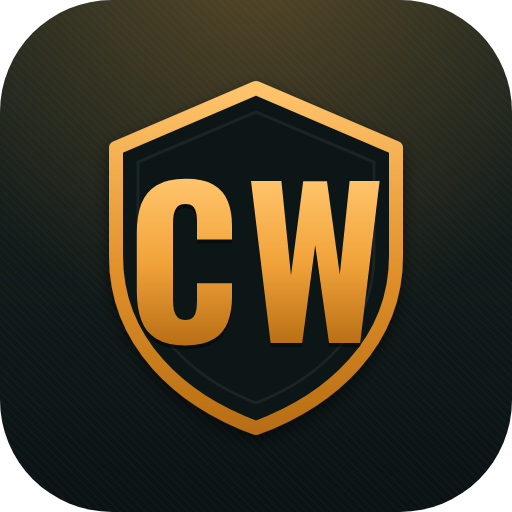
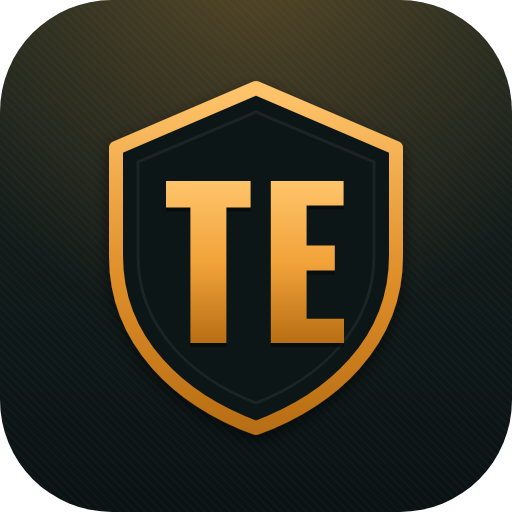
The game is Thug Empire
Every player-facing "Cartel Wars" is now "Thug Empire": the page title and home-screen name, the manifest, the sign-in and password-reset logos, the loading screen, the profile disclaimer (which now names the original game it's a fan project of), the purchase-account error, the privacy, terms and support pages, the Capacitor appName and the iOS display name, and the default sender of report emails. The icon monogram is TE and the splash wordmark reads THUG EMPIRE, regenerated by the brand scripts. The docs follow (README, SPEC, ops, iOS, the App Store listing, whose name section now explains the rename: no collision with Narcos: Cartel Wars).

Left alone on purpose: the bundle id io.rangelab.cartelwars and the IAP product ids (changing those makes a different app on the App Store), the repo and Pages URLs, package names, the bot email domain and the resume event name, and the original 2009 game's name wherever the history is told.

Claude-Session: https://claude.ai/code/session_014z8nSgjVgxbxPxw5xse587

Changed region(s): [[0.25, 0.3438, 0.75, 0.6875], [0.4062, 0.6562, 0.4375, 0.6875]]

diff --git a/web/public/terms.html b/web/public/terms.html
@@ -5,7 +5,7 @@
 <meta name="viewport" content="width=device-width, initial-scale=1, viewport-fit=cover">
 <meta name="color-scheme" content="dark">
 <meta name="theme-color" content="#121216">
-<title>Terms of Service · Cartel Wars</title>
+<title>Terms of Service · Thug Empire</title>
 <link rel="icon" href="icon.svg" type="image/svg+xml">
 <style>
   :root {
@@ -42,7 +42,7 @@
 </head>
 <body>
 <header>
-  <div class="bar"><span class="brand">Cartel Wars</span><a class="back" href="./">‹ Back to the game</a></div>
+  <div class="bar"><span class="brand">Thug Empire</span><a class="back" href="./">‹ Back to the game</a></div>
   <nav><a href="support.html">Support</a><a href="privacy.html">Privacy</a><a href="terms.html" aria-current="page">Terms</a></nav>
 </header>
 <main>
@@ -53,7 +53,7 @@
     <p>The short version: you must be 18 or older. Play fair, treat people decently, and remember it's a game. Nothing in it is worth real money.</p>
   </div>
 
-  <p>These terms are the agreement between you and Range Lab ("we", "us"), who make and run Cartel Wars. By creating an account or playing, you agree to them and to our <a href="privacy.html">Privacy Policy</a>. If you don't agree, don't play.</p>
+  <p>These terms are the agreement between you and Range Lab ("we", "us"), who make and run Thug Empire. By creating an account or playing, you agree to them and to our <a href="privacy.html">Privacy Policy</a>. If you don't agree, don't play.</p>
 
   <ul class="toc">
     <li><a href="#who">Who can play</a></li>
@@ -75,7 +75,7 @@
 
   <h2 id="who">Who can play</h2>
   <ul>
-    <li>You must be 18 or older. Cartel Wars is for adults.</li>
+    <li>You must be 18 or older. Thug Empire is for adults.</li>
     <li>One account per person.</li>
     <li>Use an email address you can get to. It's how you confirm your account and reset your password.</li>
     <li>Keep your password to yourself. You're responsible for what happens on your account.</li>
@@ -131,7 +131,7 @@
   <p>The casino is played with in-game cash only. You can't win real money or anything of real-world value there, and nothing can be cashed out. It is not gambling for money.</p>
 
   <h2 id="fiction">It's fiction</h2>
-  <p>Cartel Wars is a fictional game. The herb, dust and pills are made up, and so are the fights, crews, cartels and the city. Nothing in the game is advice or encouragement to do any of it in real life. We don't endorse drug use, violence, crime, gambling or anything else the game depicts.</p>
+  <p>Thug Empire is a fictional game. The herb, dust and pills are made up, and so are the fights, crews, cartels and the city. Nothing in the game is advice or encouragement to do any of it in real life. We don't endorse drug use, violence, crime, gambling or anything else the game depicts.</p>
 
   <h2 id="content">What you post</h2>
   <p>You keep the rights to what you write. You give us permission to store, show and copy it as needed to run the game. Don't post anything you don't have the right to share. We can remove anything at any time.</p>
@@ -149,7 +149,7 @@
   <p>Some places don't allow these limits, so some of them may not apply to you. Nothing here takes away rights the law says you can't give up.</p>
 
   <h2 id="apple">Apple</h2>
-  <p>If you got Cartel Wars from the App Store, these terms are between you and Range Lab, not Apple. Apple isn't responsible for the app, its content, its support or any claims about it. Apple and its subsidiaries are third-party beneficiaries of these terms and may enforce them.</p>
+  <p>If you got Thug Empire from the App Store, these terms are between you and Range Lab, not Apple. Apple isn't responsible for the app, its content, its support or any claims about it. Apple and its subsidiaries are third-party beneficiaries of these terms and may enforce them.</p>
 
   <h2 id="law">Governing law</h2>
   <p>These terms are governed by the laws of the State of Oregon, USA, without regard to its conflict-of-law rules. If you have a problem with the game, email us first. Most things can be sorted out that way.</p>
@@ -158,6 +158,6 @@
   <p><a href="mailto:support@rangelab.io">support@rangelab.io</a></p>
   <p>Range Lab, Oregon, USA.</p>
 </main>
-<footer>Cartel Wars is made by Range Lab · <a href="mailto:support@rangelab.io">support@rangelab.io</a></footer>
+<footer>Thug Empire is made by Range Lab · <a href="mailto:support@rangelab.io">support@rangelab.io</a></footer>
 </body>
 </html>

diff --git a/web/public/privacy.html b/web/public/privacy.html
@@ -5,7 +5,7 @@
 <meta name="viewport" content="width=device-width, initial-scale=1, viewport-fit=cover">
 <meta name="color-scheme" content="dark">
 <meta name="theme-color" content="#121216">
-<title>Privacy Policy · Cartel Wars</title>
+<title>Privacy Policy · Thug Empire</title>
 <link rel="icon" href="icon.svg" type="image/svg+xml">
 <style>
   :root {
@@ -42,7 +42,7 @@
 </head>
 <body>
 <header>
-  <div class="bar"><span class="brand">Cartel Wars</span><a class="back" href="./">‹ Back to the game</a></div>
+  <div class="bar"><span class="brand">Thug Empire</span><a class="back" href="./">‹ Back to the game</a></div>
   <nav><a href="support.html">Support</a><a href="privacy.html" aria-current="page">Privacy</a><a href="terms.html">Terms</a></nav>
 </header>
 <main>
@@ -53,7 +53,7 @@
     <p>The short version: we collect what the game needs to run. There are no ads, no analytics and no tracking, and we never sell your data. You can delete your account in the app at any time.</p>
   </div>
 
-  <p>Cartel Wars is made and run by Range Lab ("we", "us"). This policy covers the Cartel Wars app and website. It says what we collect, why, who can see it, how long we keep it and how to delete it.</p>
+  <p>Thug Empire is made and run by Range Lab ("we", "us"). This policy covers the Thug Empire app and website. It says what we collect, why, who can see it, how long we keep it and how to delete it.</p>
 
   <ul class="toc">
     <li><a href="#collect">What we collect</a></li>
@@ -109,7 +109,7 @@
   <p>You can change your avatar and bio in Profile at any time. To get a copy of your data, or to fix something you can't change yourself, email us.</p>
 
   <h2 id="kids">Children</h2>
-  <p>Cartel Wars is for adults. You must be 18 or older to play. We don't knowingly collect data from children under 13. If we learn that someone under 18 has an account, we'll delete it. If you think a child is using the game, email us.</p>
+  <p>Thug Empire is for adults. You must be 18 or older to play. We don't knowingly collect data from children under 13. If we learn that someone under 18 has an account, we'll delete it. If you think a child is using the game, email us.</p>
 
   <h2 id="security">Security</h2>
   <p>All traffic uses HTTPS. Passwords are hashed by Supabase Auth and never stored in plain text. Players can't read or change the database directly; every change goes through the game's own server functions, which check who is asking. No system is perfectly secure, but if a breach affects your data, we'll tell you.</p>
@@ -121,6 +121,6 @@
   <p>Questions about your privacy, or anything else: <a href="mailto:support@rangelab.io">support@rangelab.io</a>.</p>
   <p>Range Lab, Oregon, USA.</p>
 </main>
-<footer>Cartel Wars is made by Range Lab · <a href="mailto:support@rangelab.io">support@rangelab.io</a></footer>
+<footer>Thug Empire is made by Range Lab · <a href="mailto:support@rangelab.io">support@rangelab.io</a></footer>
 </body>
 </html>

diff --git a/web/public/support.html b/web/public/support.html
@@ -5,7 +5,7 @@
 <meta name="viewport" content="width=device-width, initial-scale=1, viewport-fit=cover">
 <meta name="color-scheme" content="dark">
 <meta name="theme-color" content="#121216">
-<title>Support · Cartel Wars</title>
+<title>Support · Thug Empire</title>
 <link rel="icon" href="icon.svg" type="image/svg+xml">
 <style>
   :root {
@@ -40,7 +40,7 @@
 </head>
 <body>
 <header>
-  <div class="bar"><span class="brand">Cartel Wars</span><a class="back" href="./">‹ Back to the game</a></div>
+  <div class="bar"><span class="brand">Thug Empire</span><a class="back" href="./">‹ Back to the game</a></div>
   <nav><a href="support.html" aria-current="page">Support</a><a href="privacy.html">Privacy</a><a href="terms.html">Terms</a></nav>
 </header>
 <main>
@@ -74,7 +74,7 @@
 
   <h2 id="drop">Cancelling the Daily Drop</h2>
   <p>Right now the Daily Drop is free. To stop it, tap <strong>Cancel</strong> on the Daily Drop card on Home.</p>
-  <p>Once it's a paid subscription through Apple, cancel it on your iPhone in <strong>Settings → your name → Subscriptions → Cartel Wars</strong>. It stays on until the end of the period you paid for. Crates already left for you stay yours to open.</p>
+  <p>Once it's a paid subscription through Apple, cancel it on your iPhone in <strong>Settings → your name → Subscriptions → Thug Empire</strong>. It stays on until the end of the period you paid for. Crates already left for you stay yours to open.</p>
 
   <h2 id="password">Resetting your password</h2>
   <ol>
@@ -94,6 +94,6 @@
     <li><a href="terms.html">Terms of Service</a></li>
   </ul>
 </main>
-<footer>Cartel Wars is made by Range Lab · <a href="mailto:support@rangelab.io">support@rangelab.io</a></footer>
+<footer>Thug Empire is made by Range Lab · <a href="mailto:support@rangelab.io">support@rangelab.io</a></footer>
 </body>
 </html>

diff --git a/web/src/components/Layout.tsx b/web/src/components/Layout.tsx
@@ -98,7 +98,7 @@ export default function Layout() {
   const unread = (me?.unread_activity ?? 0) + (me?.unread_dms ?? 0)
   // (2) in the browser tab title, and the home-screen app icon badge where the platform supports it
   useEffect(() => {
-    document.title = unread ? `(${unread}) Cartel Wars` : 'Cartel Wars'
+    document.title = unread ? `(${unread}) Thug Empire` : 'Thug Empire'
     const n = navigator as Navigator & { setAppBadge?: (n?: number) => Promise<void>; clearAppBadge?: () => Promise<void> }
     try { if (unread) n.setAppBadge?.(unread)?.catch(() => {}); else n.clearAppBadge?.()?.catch(() => {}) } catch { /* unsupported */ }
   }, [unread])
@@ -147,7 +147,7 @@ export default function Layout() {
       {/* the strip only says what nothing else on screen does: offline anywhere, the hospital off Home (the top bar's
           JAIL tag covers jail, and Home's Next up covers both) */}
       <main id="main">
-      {me && <h1 className="sr-only">{TITLES[pathname.split('/')[1] ?? ''] ?? 'Cartel Wars'}</h1>}
+      {me && <h1 className="sr-only">{TITLES[pathname.split('/')[1] ?? ''] ?? 'Thug Empire'}</h1>}
       {me && (netDown || (me.hospital && !onHome)) && (
         <div className="status-strip">
           {netDown && <span className="pill red"><Icon name="warn" size={13} />Offline · retrying</span>}

diff --git a/web/src/index.css b/web/src/index.css
@@ -1,5 +1,5 @@
 /* ==========================================================================================================
-   Cartel Wars design system — "Border Night" (redesign, 2026-11-07; the tokens began in Phase 4, 2026-10-05)
+   Thug Empire design system — "Border Night" (redesign, 2026-11-07; the tokens began in Phase 4, 2026-10-05)
    One set of tokens, used everywhere below. The rules of thumb:
    - The ground is a deep teal-black with a faint diagonal grain and one warm light at the top. Cards are a short
      top-to-bottom gradient with a 1 px highlight on the top edge and a deep, soft shadow; wells (stat tiles, inputs,

diff --git a/web/index.html b/web/index.html
@@ -9,8 +9,8 @@
     <link rel="manifest" href="manifest.webmanifest" />
     <link rel="icon" href="icon.svg" type="image/svg+xml" />
     <link rel="apple-touch-icon" href="icon-192.png" />
-    <meta name="apple-mobile-web-app-title" content="Cartel Wars" />
-    <title>Cartel Wars</title>
+    <meta name="apple-mobile-web-app-title" content="Thug Empire" />
+    <title>Thug Empire</title>
     <script>
       // GitHub Pages SPA fallback: 404.html bounces deep links here as ?r=<path>; restore it before the app boots.
       (function () {

diff --git a/web/src/lib/store.ts b/web/src/lib/store.ts
@@ -108,7 +108,7 @@ export async function restorePurchases(): Promise<{ active: number }> {
   } catch (e) {
     const x = e as { code?: unknown; message?: string }
     if (String(x?.code) === E.RECEIPT_IN_USE_BY_OTHER_SUBSCRIBER_ERROR || String(x?.code) === E.RECEIPT_ALREADY_IN_USE_ERROR) {
-      throw new Error('Those purchases belong to another Cartel Wars account')
+      throw new Error('Those purchases belong to another Thug Empire account')
     }
     throw new Error(x?.message || "Couldn't restore purchases")
   }

diff --git a/supabase/functions/report-notify/index.ts b/supabase/functions/report-notify/index.ts
@@ -4,7 +4,7 @@
 // email through Resend, whichever is configured. Secrets and setup: docs/ops.md.
 
 const ADMIN_URL = 'https://rangerzack.github.io/cartel-wars/admin'
-const DEFAULT_FROM = 'Cartel Wars <noreply@rangelab.io>'
+const DEFAULT_FROM = 'Thug Empire <noreply@rangelab.io>'
 
 type Latest = { reason?: string; note?: string; target?: string | null; reporter?: string | null; at?: string }
 type Payload = { kind?: string; open_targets?: number; open_reports?: number; latest?: Latest }

diff --git a/web/src/pages/Profile.tsx b/web/src/pages/Profile.tsx
@@ -68,7 +68,7 @@ export default function Profile() {
       <BlockedPlayers />
       <AccountCard onSignedOut={() => nav('/')} />
       <HelpPolicies />
-      <p className="muted small center">Cartel Wars is an independent fan project and is not affiliated with the creators of the original 2009 game.</p>
+      <p className="muted small center">Thug Empire is an independent fan project and is not affiliated with the creators of the original 2009 game, Cartel Wars.</p>
     </div>
   )
 }

diff --git a/web/src/components/Account.tsx b/web/src/components/Account.tsx
@@ -93,7 +93,7 @@ export function SetNewPassword() {
   return (
     <div className="auth">
       <Toasts />
-      <div className="logo"><h1>Cartel Wars</h1><p>Set a new password</p></div>
+      <div className="logo"><h1>Thug Empire</h1><p>Set a new password</p></div>
       <Card>
         <div className="bd stack">
           <div className="small muted">You opened a password reset link. Pick a new password to get back in.</div>

diff --git a/web/src/lib/game.tsx b/web/src/lib/game.tsx
@@ -53,7 +53,7 @@ const Ctx = createContext<GameState | null>(null)
 function CantReach({ onRetry }: { onRetry: () => void }) {
   return (
     <div className="auth">
-      <div className="logo"><h1>Cartel Wars</h1></div>
+      <div className="logo"><h1>Thug Empire</h1></div>
       <div className="card">
         <div className="hd"><span>Can't reach the city</span></div>
         <div className="bd stack">

diff --git a/web/capacitor.config.ts b/web/capacitor.config.ts
@@ -4,7 +4,7 @@ import type { CapacitorConfig } from '@capacitor/cli'
 // Build with BASE_PATH=/ (`npm run build:ios`) — inside the shell the app is served from capacitor://localhost/.
 const config: CapacitorConfig = {
   appId: 'io.rangelab.cartelwars',
-  appName: 'Cartel Wars',
+  appName: 'Thug Empire',
   webDir: 'dist',
   backgroundColor: '#0a1214',
   ios: {
